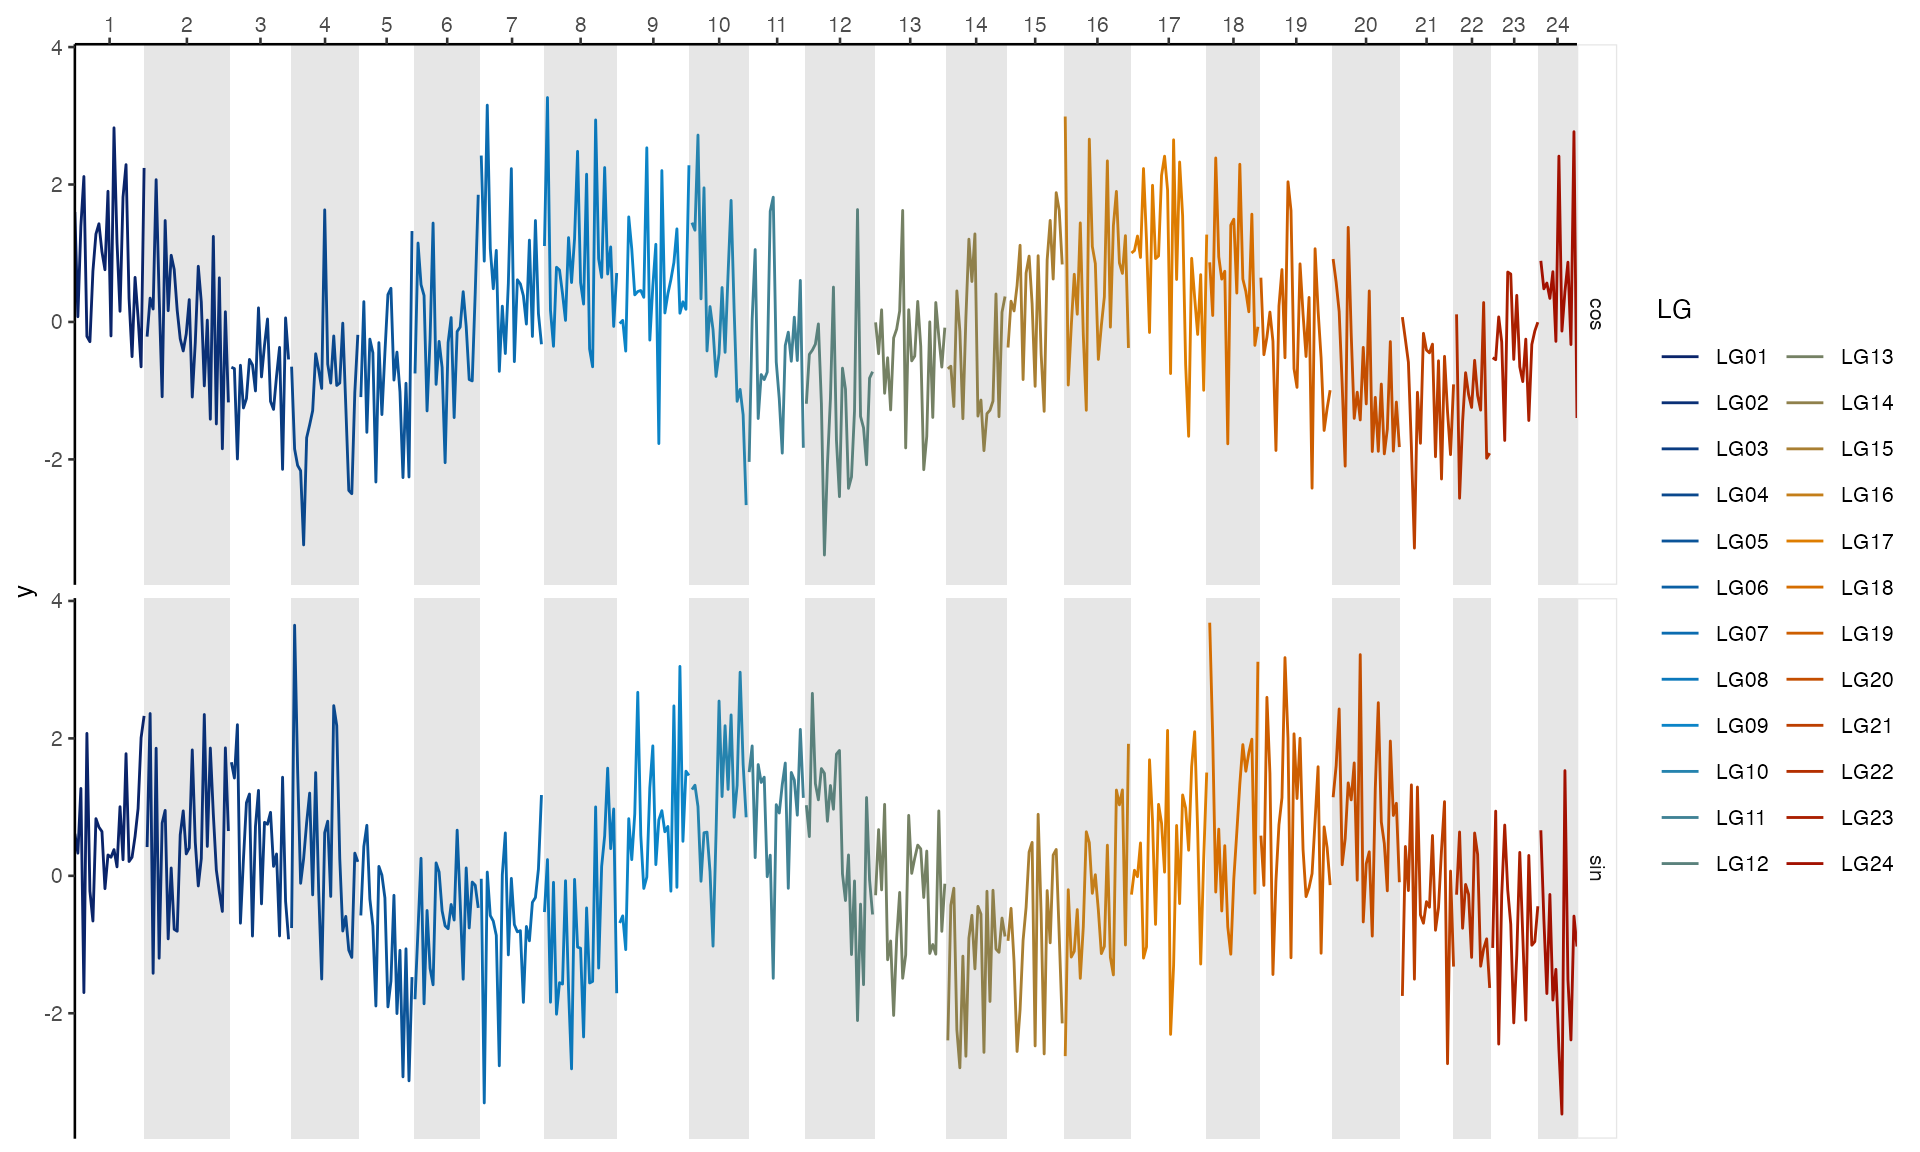
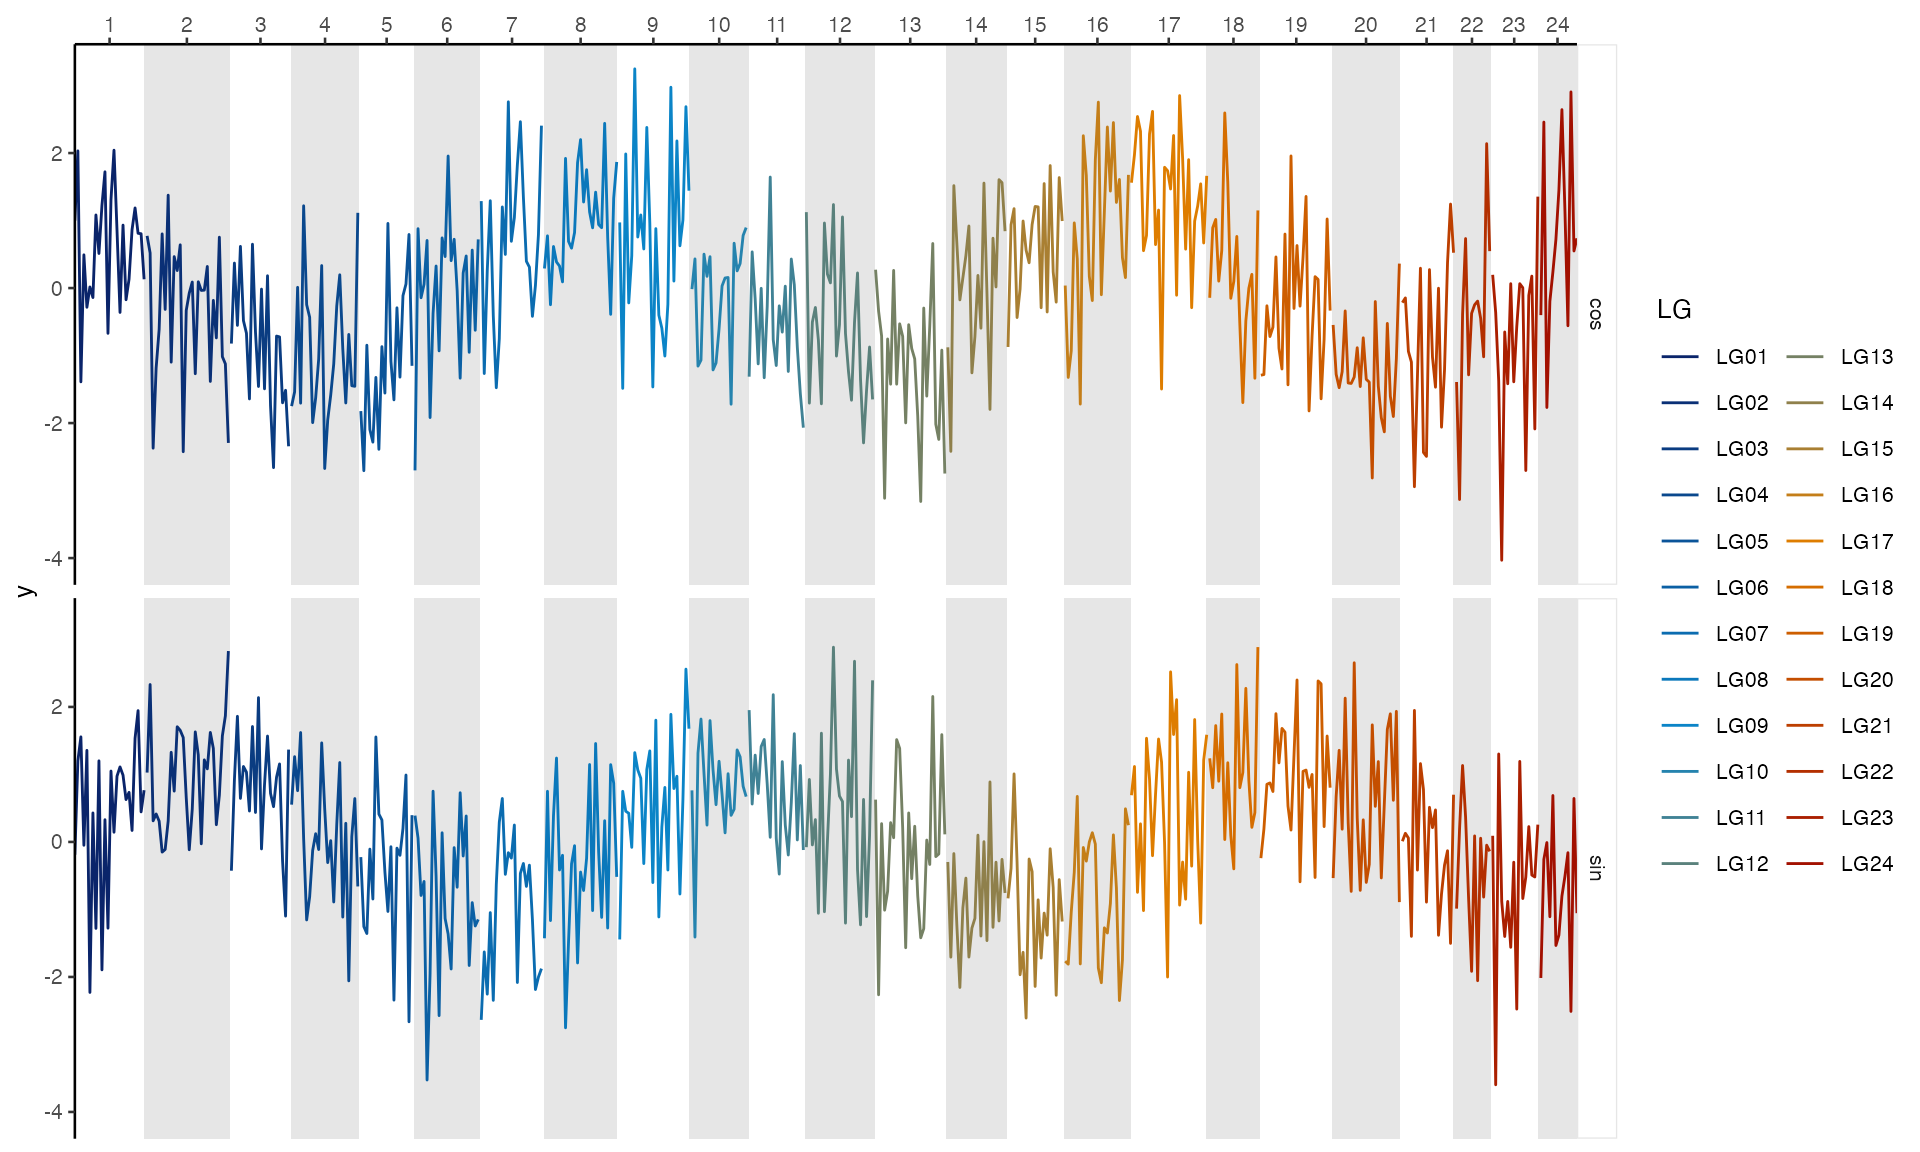
Built site for hypogen: 1.0.0.3@a6f6d23

Changed region(s): [[0.0312, 0.5625, 0.8438, 0.9375], [0.0312, 0.0938, 0.8438, 0.4375]]

diff --git a/articles/hypogen.html b/articles/hypogen.html
@@ -148,14 +148,14 @@ img {
                     <span class="fu"><a href="https://rdrr.io/r/base/Trig.html">cos</a></span><span class="op">(</span><span class="va">x</span><span class="op">/</span><span class="fl">200000000</span><span class="op">*</span><span class="fl">2</span><span class="op">*</span><span class="va">pi</span><span class="op">+</span><span class="fl">.2</span><span class="op">)</span><span class="op">)</span> <span class="op">+</span> <span class="fu"><a href="https://rdrr.io/r/stats/Normal.html">rnorm</a></span><span class="op">(</span><span class="fl">1000</span><span class="op">)</span><span class="op">)</span>
 <span class="va">test_df</span> <span class="op">%&gt;%</span> <span class="va">head</span>
 <span class="co">#&gt; # A tibble: 6 x 4</span>
-<span class="co">#&gt;          x CHROM grp        y</span>
-<span class="co">#&gt;      &lt;dbl&gt; &lt;chr&gt; &lt;chr&gt;  &lt;dbl&gt;</span>
-<span class="co">#&gt; 1       1  LG01  sin    0.613</span>
-<span class="co">#&gt; 2 1121543. LG01  sin    0.329</span>
-<span class="co">#&gt; 3 2243086. LG01  sin    1.27 </span>
-<span class="co">#&gt; 4 3364628. LG01  sin   -1.70 </span>
-<span class="co">#&gt; 5 4486171. LG01  sin    2.07 </span>
-<span class="co">#&gt; 6 5607713. LG01  sin   -0.222</span></code></pre></div>
+<span class="co">#&gt;          x CHROM grp         y</span>
+<span class="co">#&gt;      &lt;dbl&gt; &lt;chr&gt; &lt;chr&gt;   &lt;dbl&gt;</span>
+<span class="co">#&gt; 1       1  LG01  sin   -0.190 </span>
+<span class="co">#&gt; 2 1121543. LG01  sin    1.20  </span>
+<span class="co">#&gt; 3 2243086. LG01  sin    1.56  </span>
+<span class="co">#&gt; 4 3364628. LG01  sin   -0.0498</span>
+<span class="co">#&gt; 5 4486171. LG01  sin    1.36  </span>
+<span class="co">#&gt; 6 5607713. LG01  sin   -2.23</span></code></pre></div>
 <div class="sourceCode" id="cb4"><pre class="downlit sourceCode r">
 <code class="sourceCode R"><span class="fu">ggplot</span><span class="op">(</span><span class="op">)</span> <span class="op">+</span>
   <span class="fu"><a href="../reference/geom_hypo_LG.html">geom_hypo_LG</a></span><span class="op">(</span><span class="op">)</span> <span class="op">+</span>
